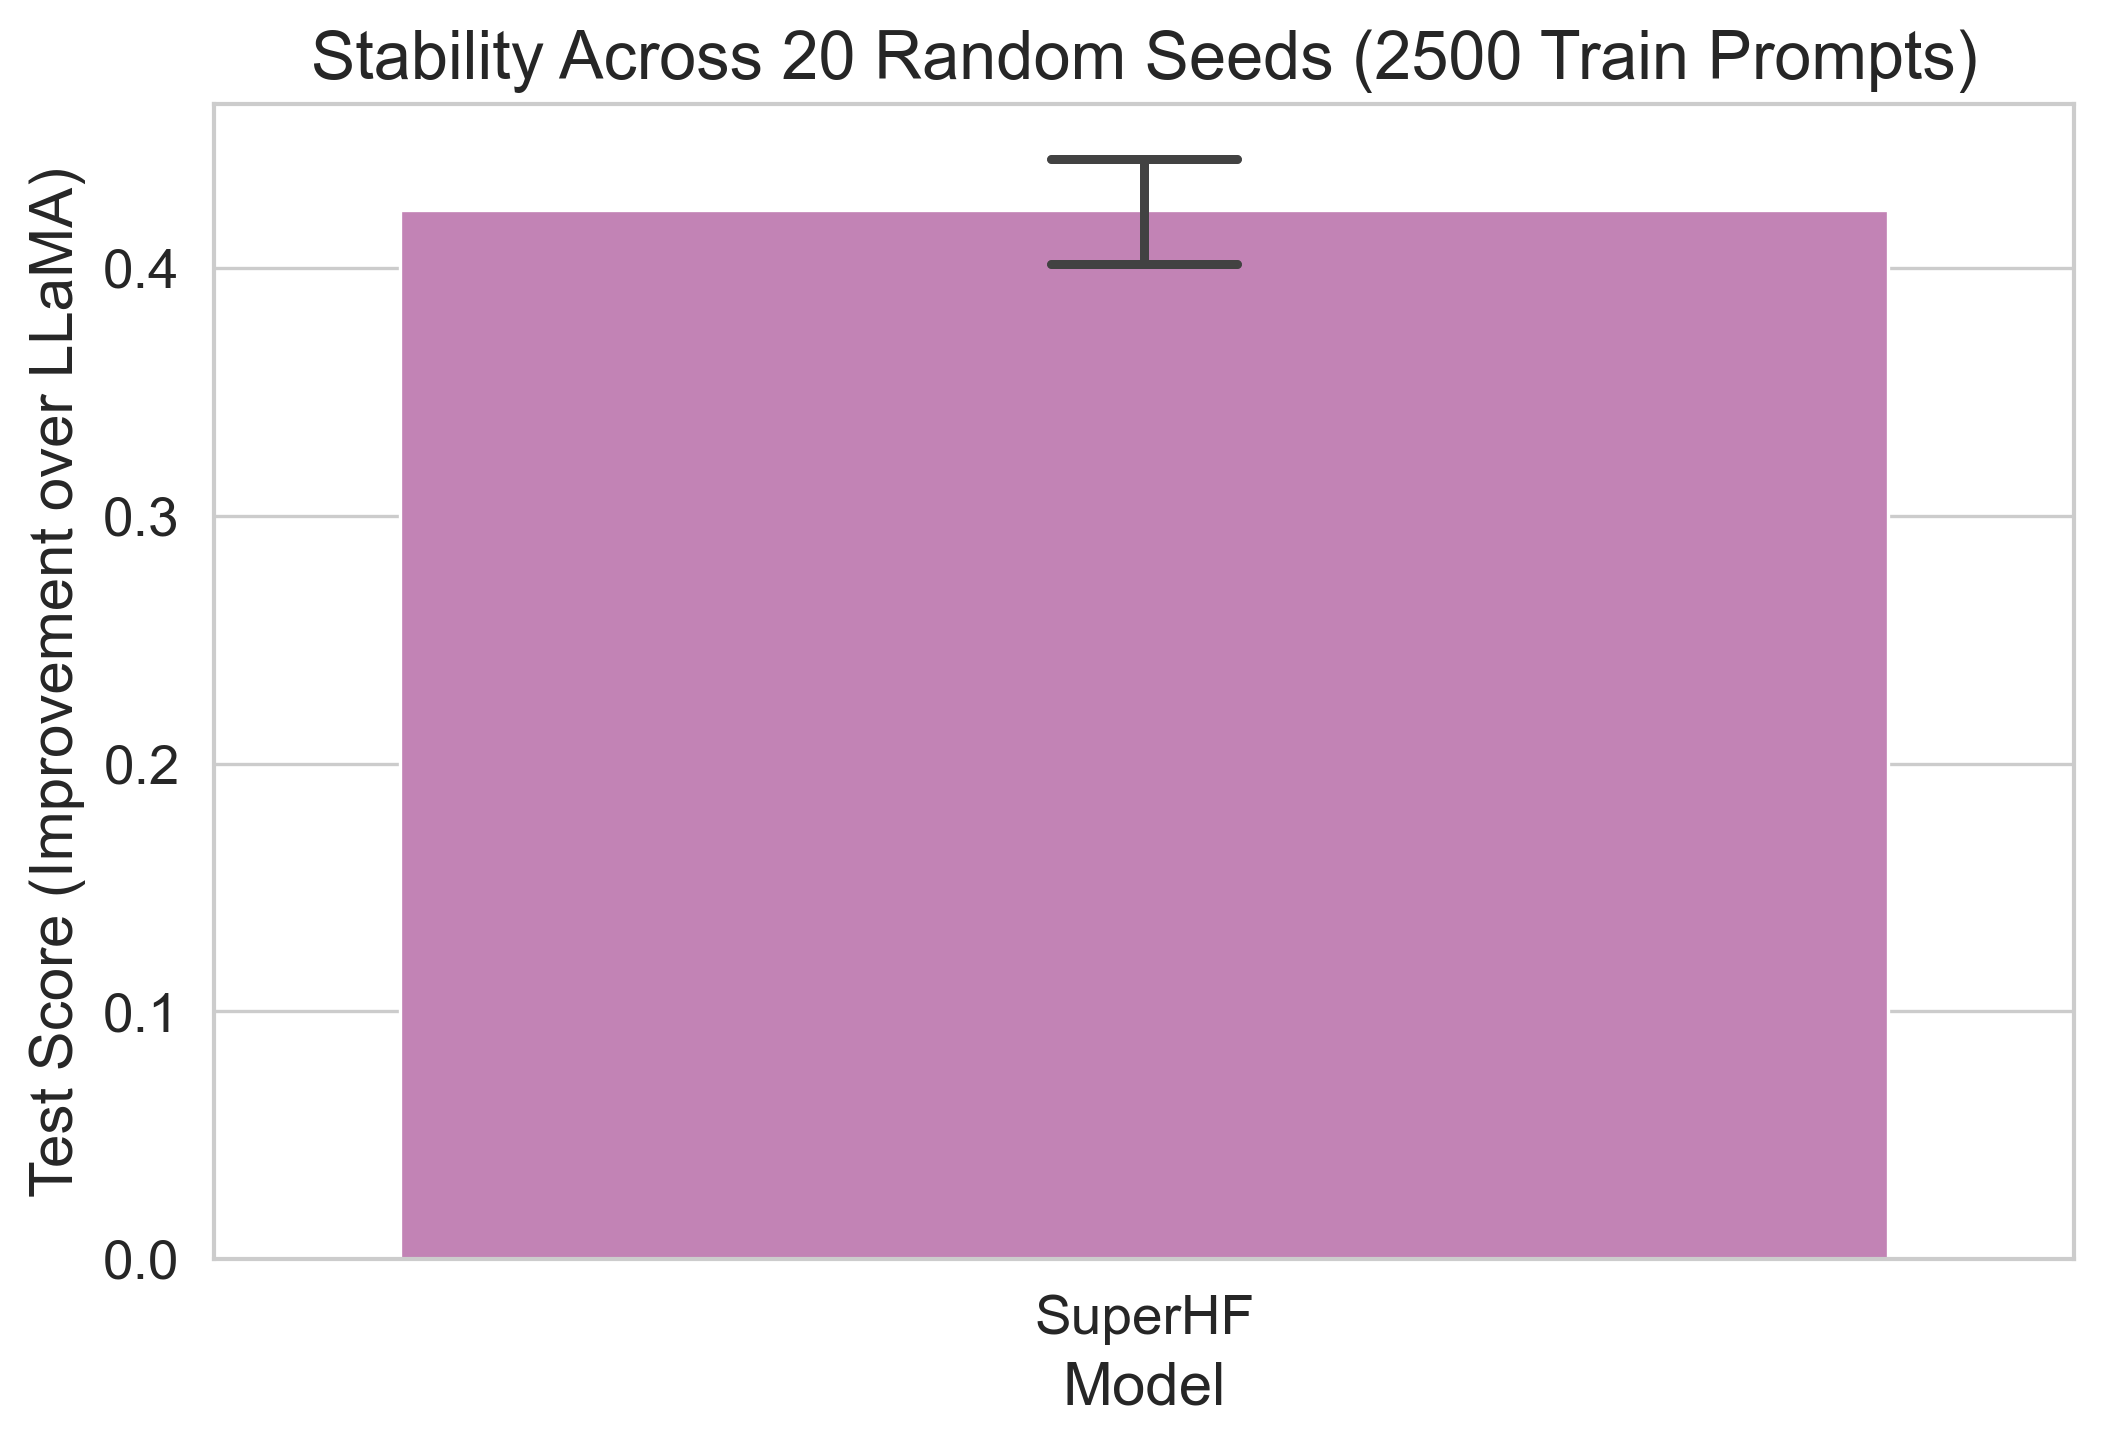
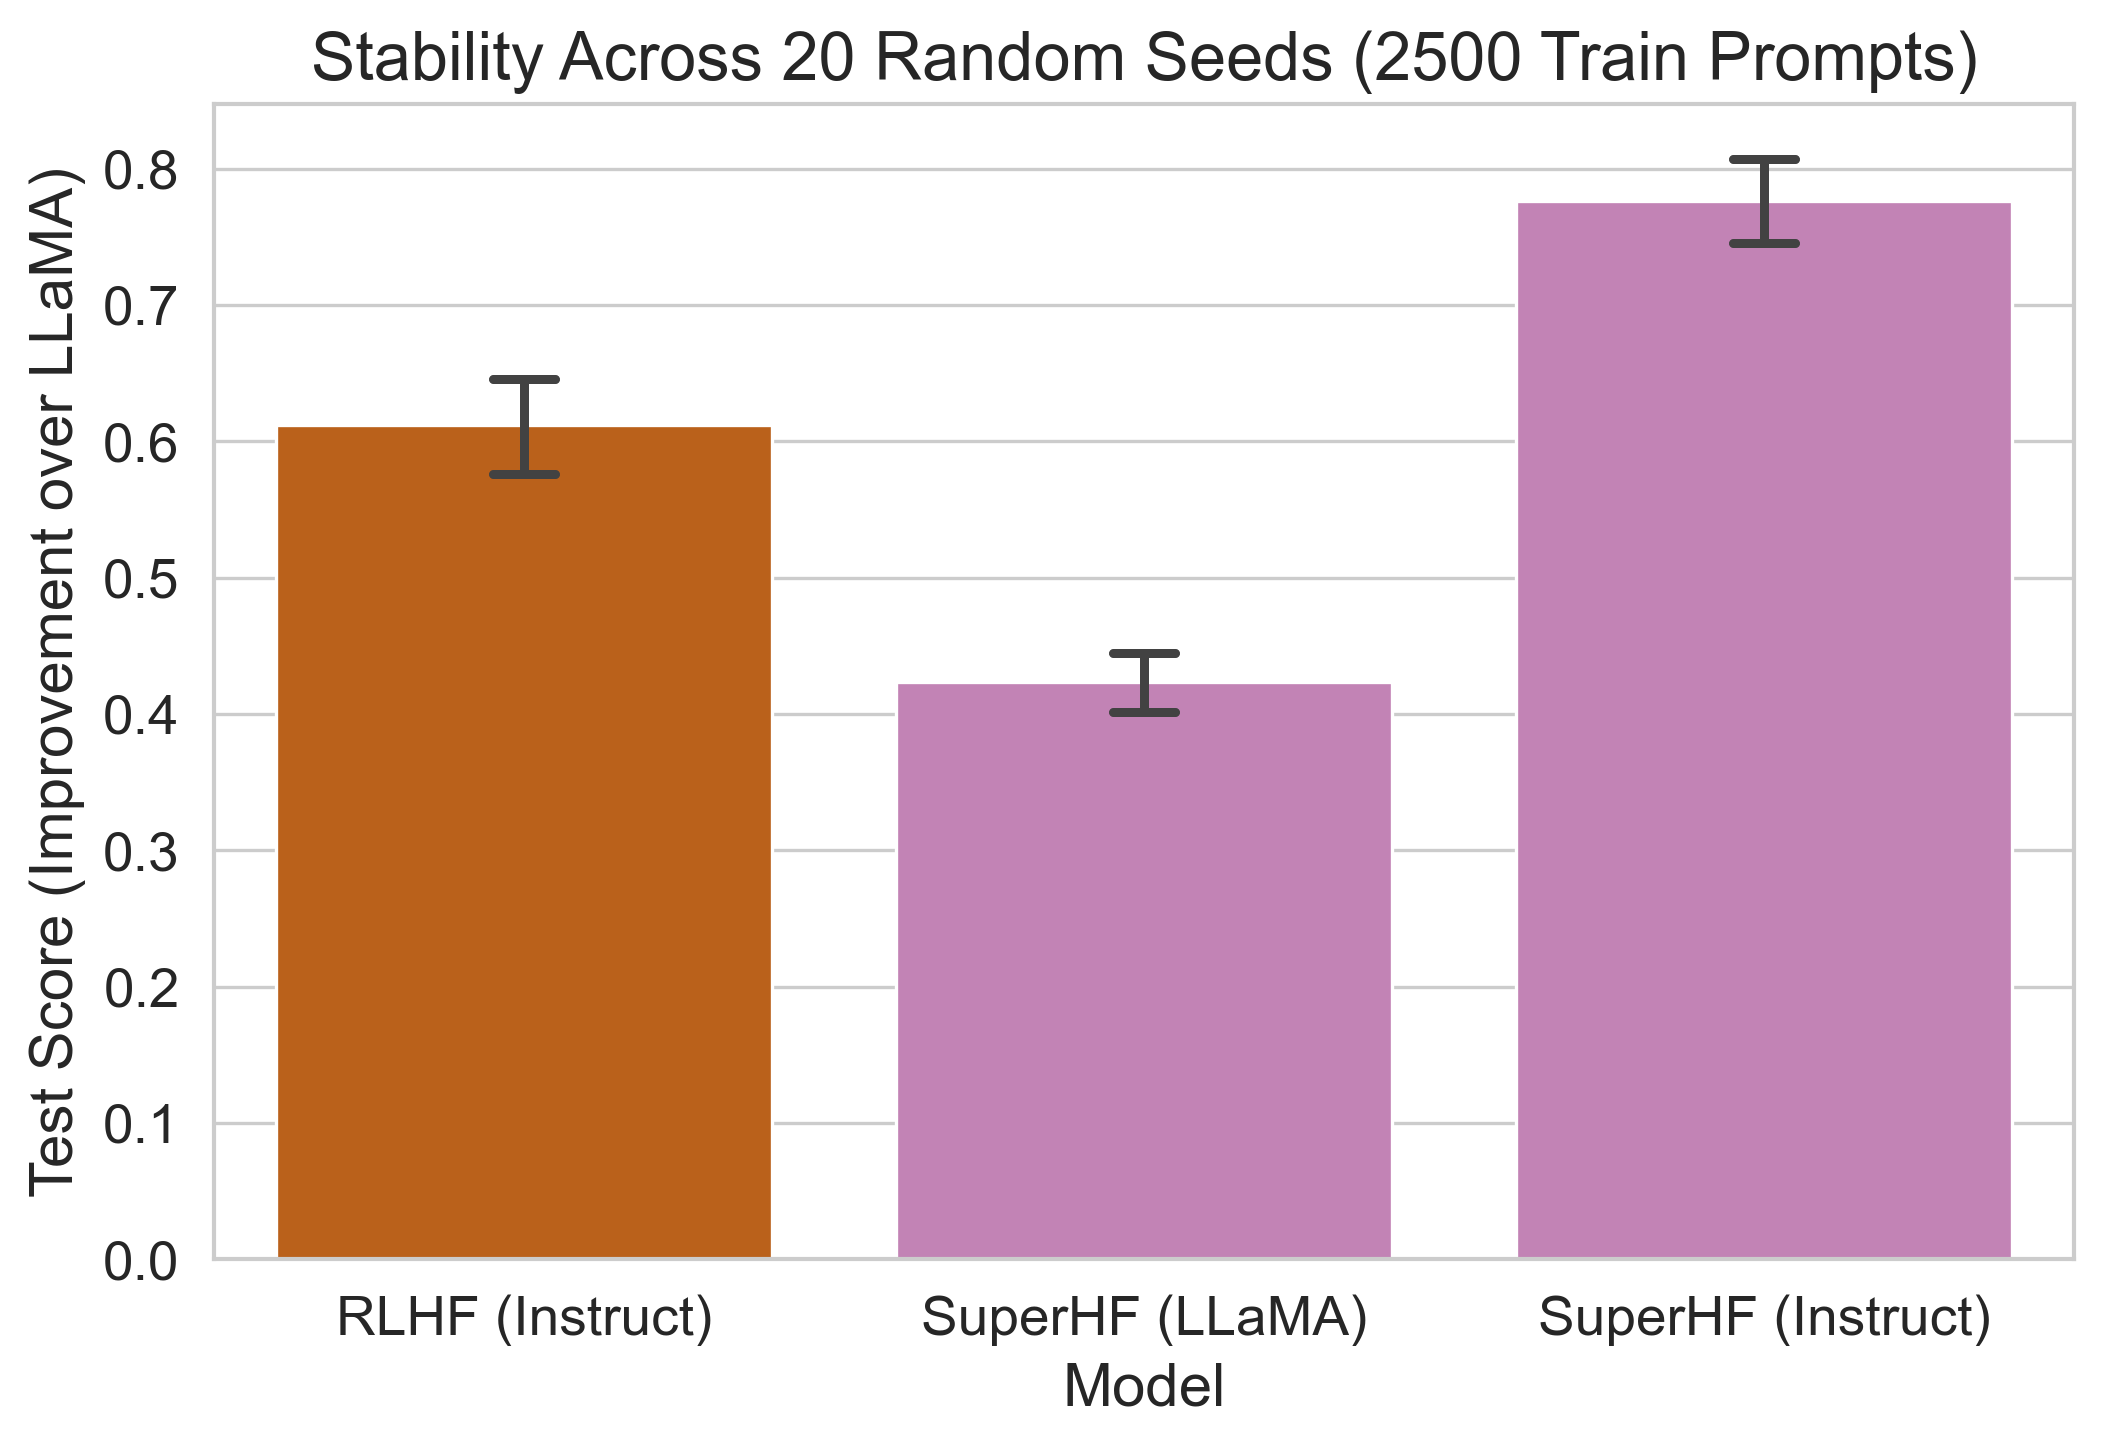
Add more columns to stability plot

diff --git a/charts/random_seed_stability.py b/charts/random_seed_stability.py
@@ -28,11 +28,16 @@ def main() -> None:
     plt.rcParams["lines.markersize"] = 1
 
     # Define the model sizes and their corresponding file names
-    model_types_to_test_names = {"SuperHF": "shf-v4-llama-seed-"}
+    model_types_to_test_names = {
+        "RLHF (Instruct)": "rlhf-fixed-llama-instruct-seed-",
+        "SuperHF (LLaMA)": "shf-v4-llama-seed-",
+        "SuperHF (Instruct)": "shf-v4-instruct-seed-",
+    }
 
     # Find all the files in the test scores directory
     shf_data = []
     for model_type, file_name_template in model_types_to_test_names.items():
+        count_files = 0
         for file_name in os.listdir(TEST_SCORES_DIRECTORY):
             if file_name.startswith(file_name_template):
                 file_path = os.path.join(TEST_SCORES_DIRECTORY, file_name)
@@ -41,6 +46,8 @@ def main() -> None:
                     [model_type, score - LLAMA_TEST_REWARD] for score in scores
                 ]
                 shf_data.extend(labeled_scores)
+                count_files += 1
+        print(f"Found {count_files} files for {model_type}.")
 
     dataframe = pd.DataFrame(shf_data, columns=["Model", "Score"])
 
